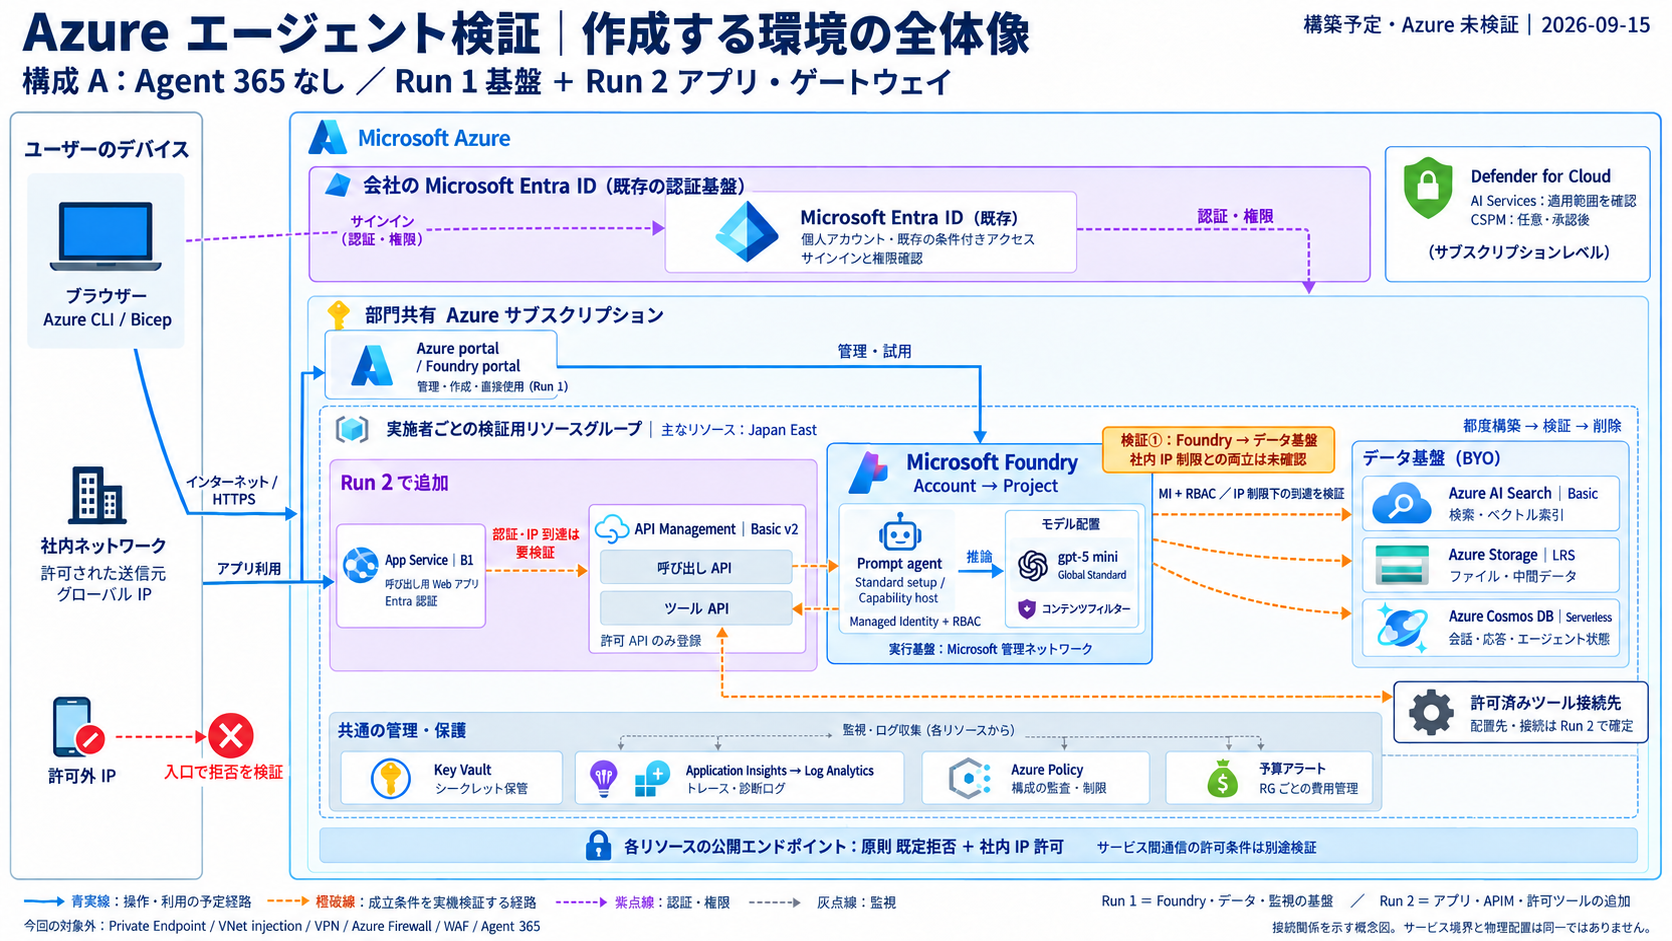
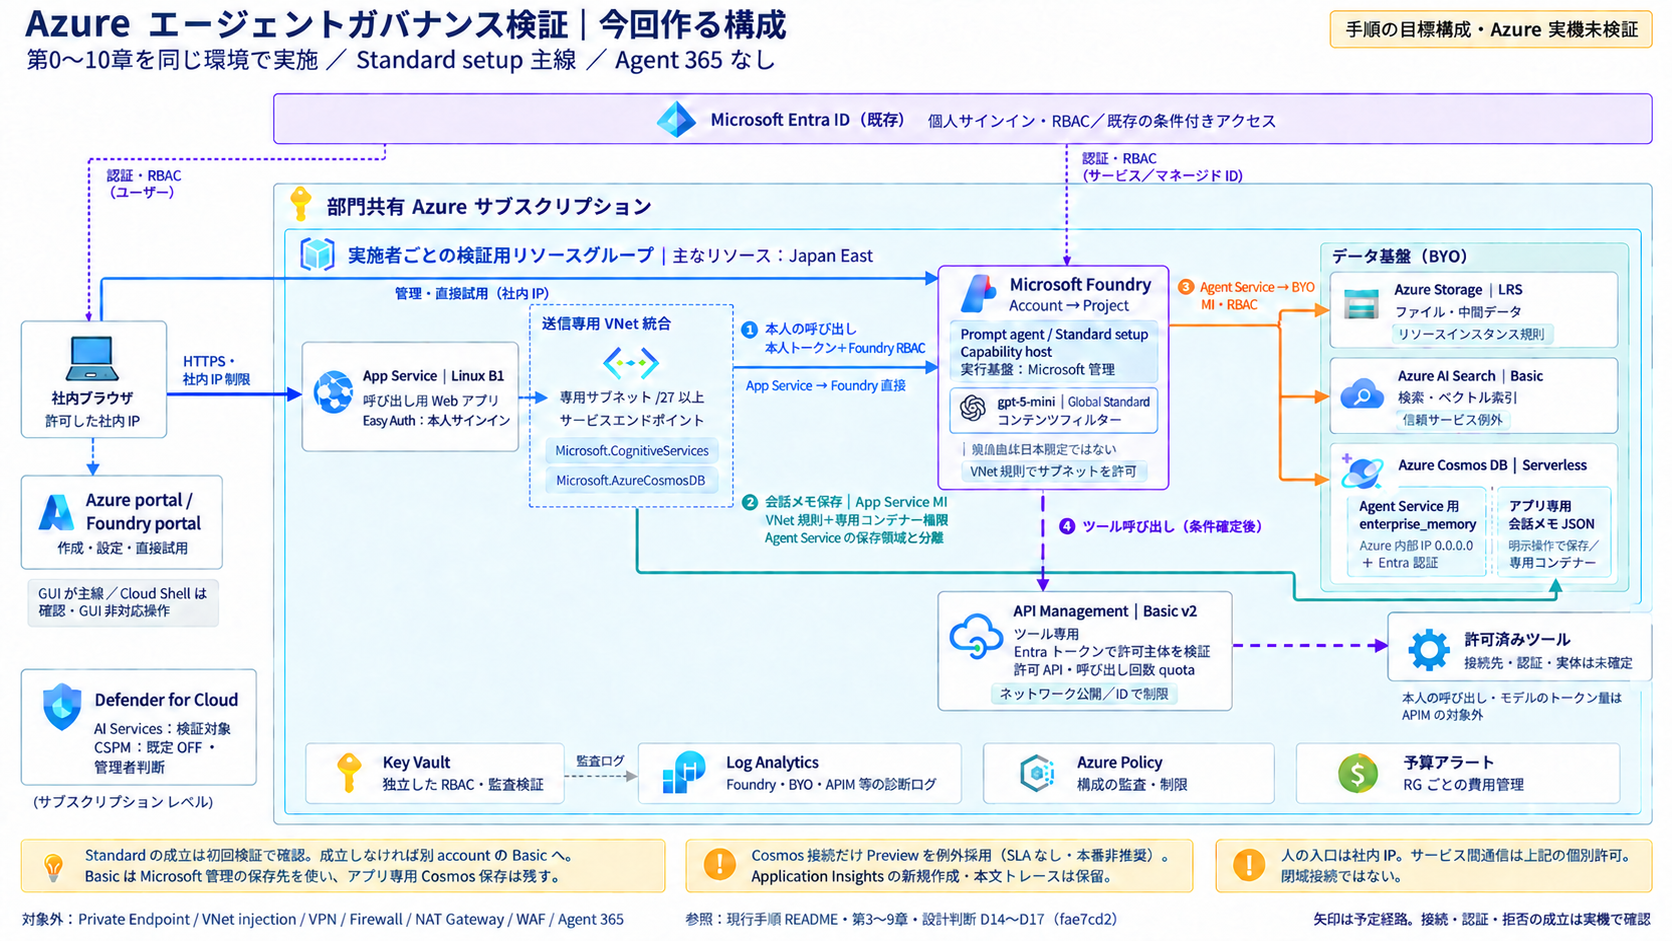
docs: update architecture diagram to current D14-D17 procedures

diff --git a/README.md b/README.md
@@ -12,16 +12,13 @@ Microsoft Foundry の prompt agent を作り、権限・ネットワーク・監
 
 ## 全体構成図
 
-> **Note** 画像は D14 採用前の参考図です。本人の呼び出しが APIM を通る部分と VNet の有無は現行構成と異なります。現在の経路は下の「今回作る環境」の図を参照します。
+![今回作る構成：本人は App Service から Foundry を直接呼び、APIM はツール専用](Azure.png)
 
-<details>
-<summary>旧構成の参考画像（D14 未反映）</summary>
+> **Note** 現行手順の設計判断 D14〜D17 を反映した目標構成です。Azure の実機検証は未実施です。本人の呼び出しは App Service の送信 VNet 統合・サービス エンドポイント経由で Foundry に直接接続し、APIM はツール経路に限定します。アプリ専用の Cosmos DB 保存は Agent Service の保存領域と分離します。
 
-![D14 採用前の参考図](Azure.png)
+> **補足** 第0〜10章を一つの環境で順番に進めます。Standard setup の成立は初回検証で確認し、成立しなければ別 account の Basic setup に分岐します。Cosmos 接続のみ Preview の例外を採用し、Application Insights の新規作成・本文トレースは保留します。Key Vault は独立した RBAC・監査の検証対象です。
 
-</details>
-
-> **補足** 図中の「Run 1／Run 2」は旧計画の基盤／アプリ追加の区分です。現在は第0〜10章を一つの環境で順番に進めます。Azure CLI／Bicep は原則 Cloud Shell 上の確認・任意の再現用（第7章の ZIP 配布とその認証・対象確認のみ社内 PC の CLI を使う暫定例外）で、Key Vault は本手順では RBAC・監査の検証対象です。実際のキーや接続文字列は保存しません。
+> **補足** Azure CLI／Bicep は原則 Cloud Shell 上の確認・任意の再現用（第7章の ZIP 配布とその認証・対象確認のみ社内 PC の CLI を使う暫定例外）です。Key Vault に実際のキーや接続文字列は保存しません。
 
 ## ハンズオン：ここから順番に進める
 
